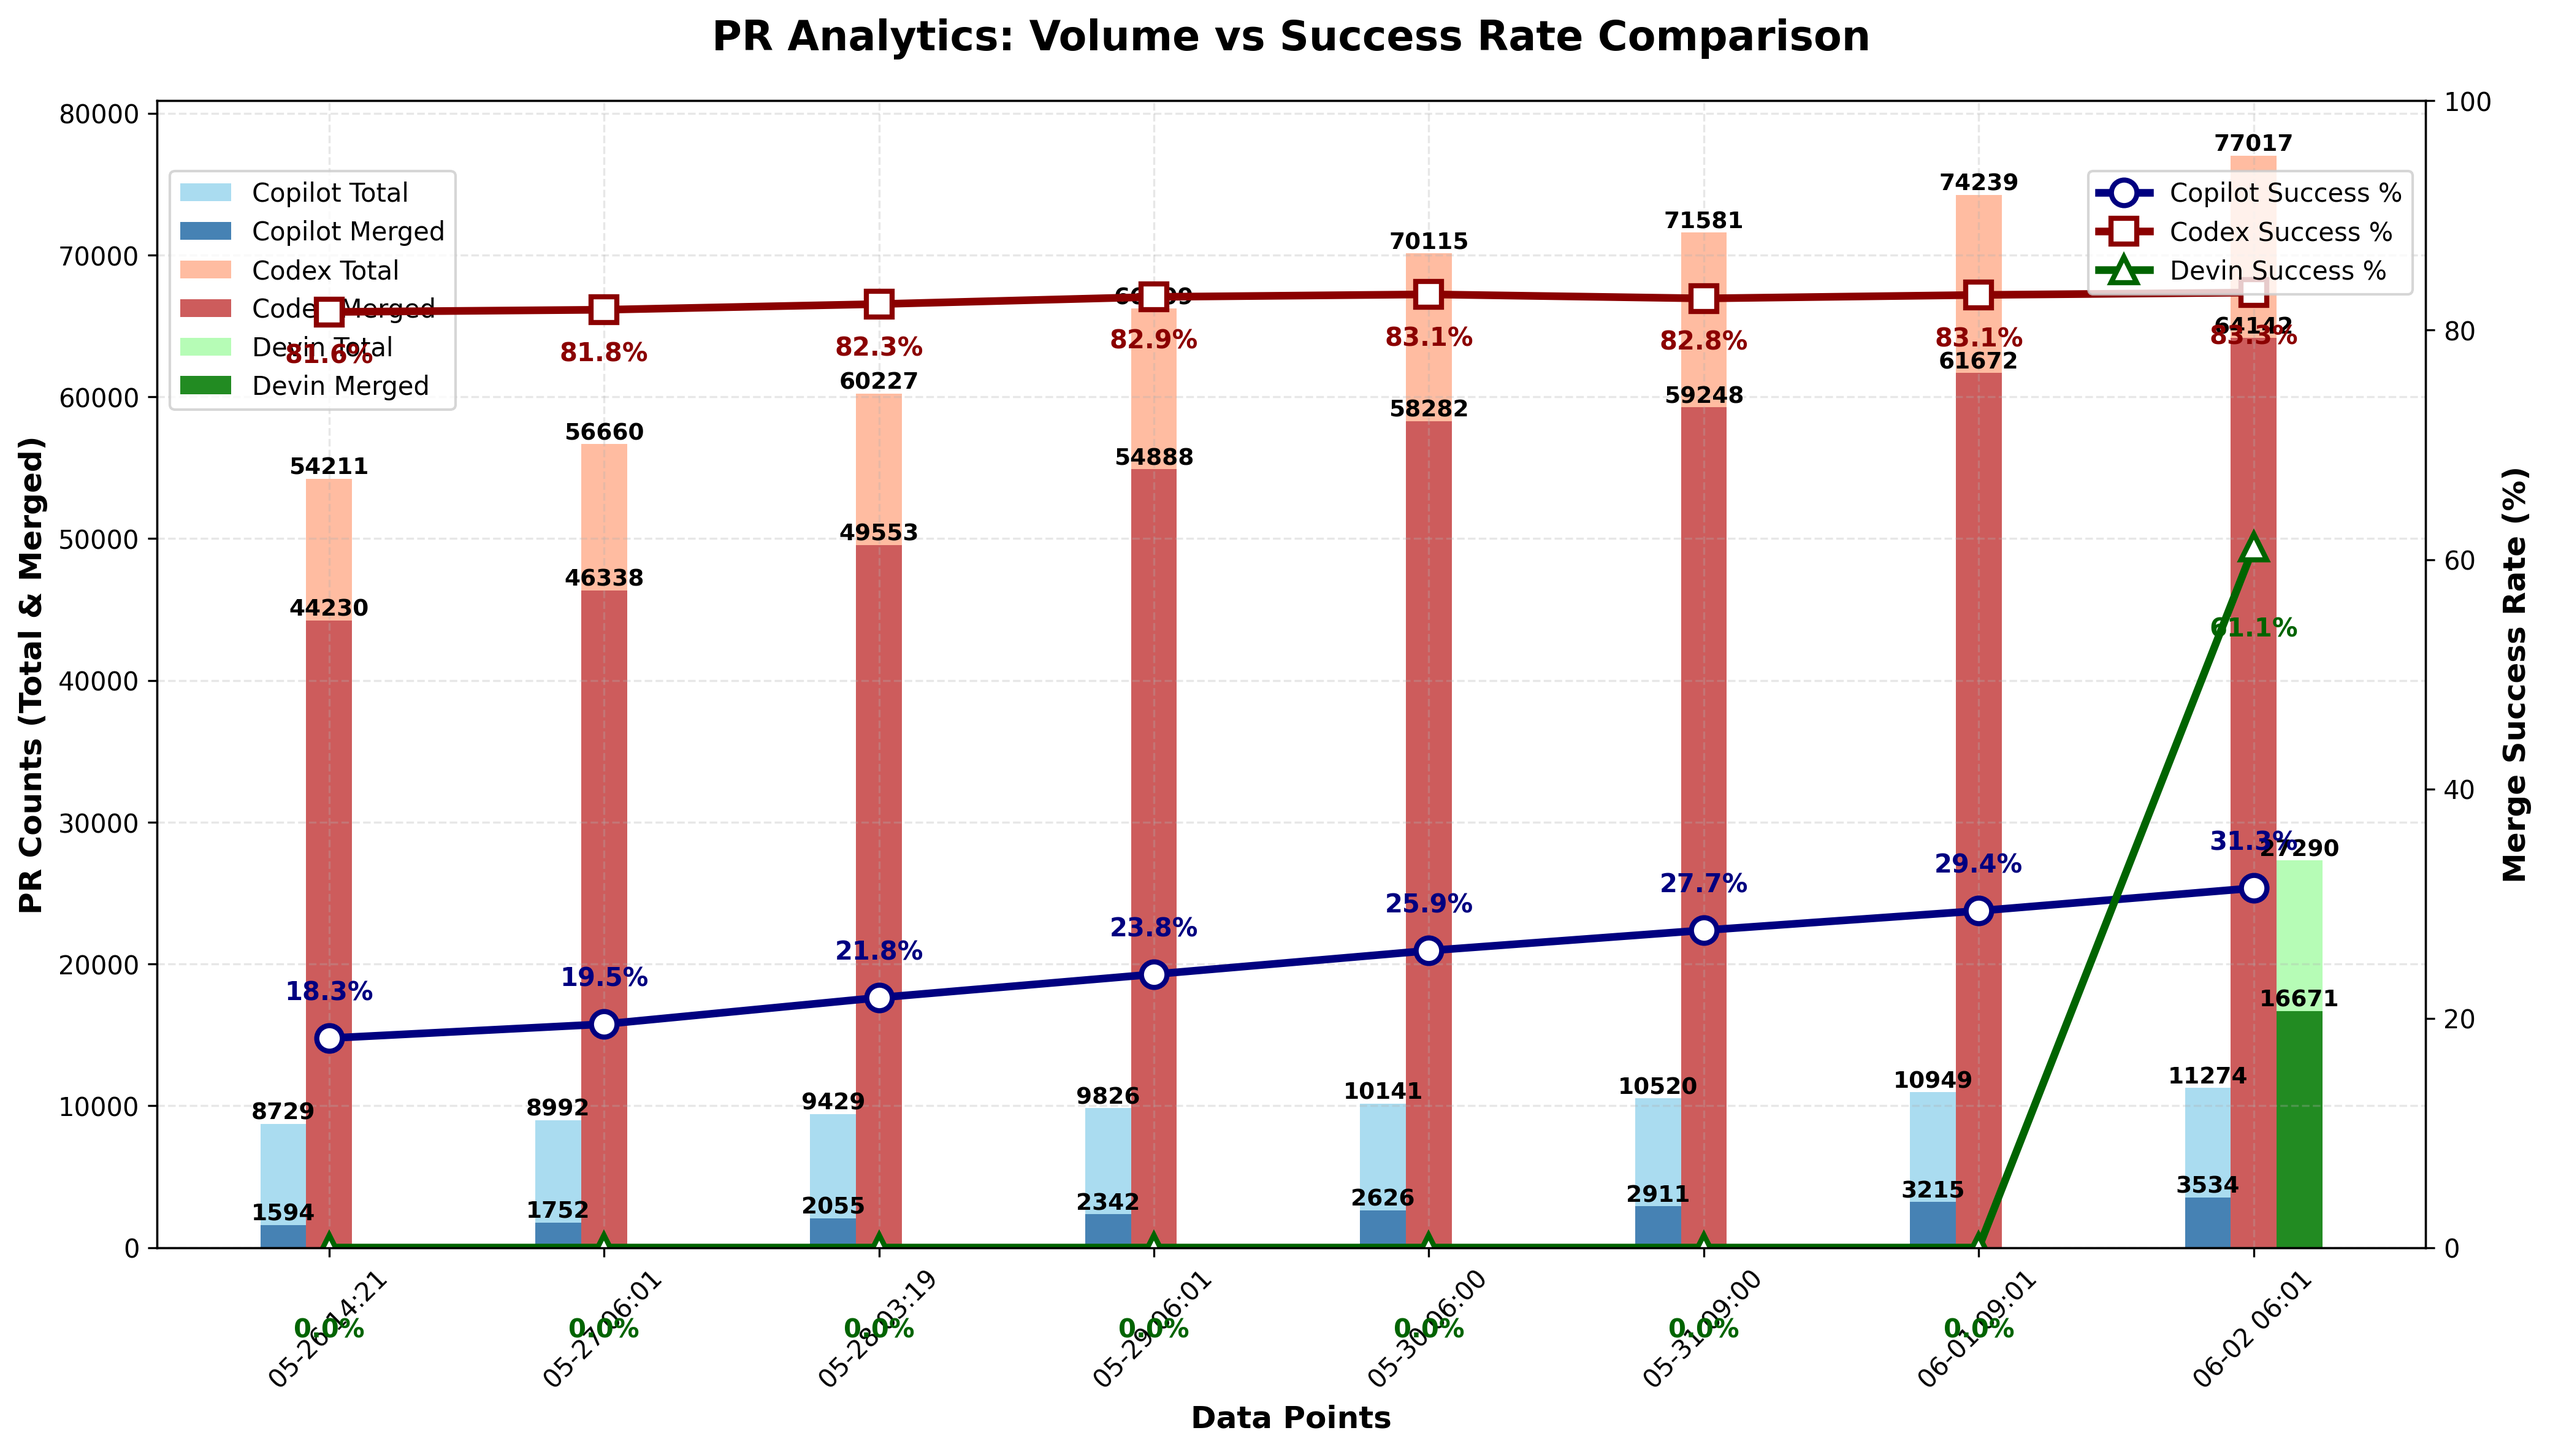
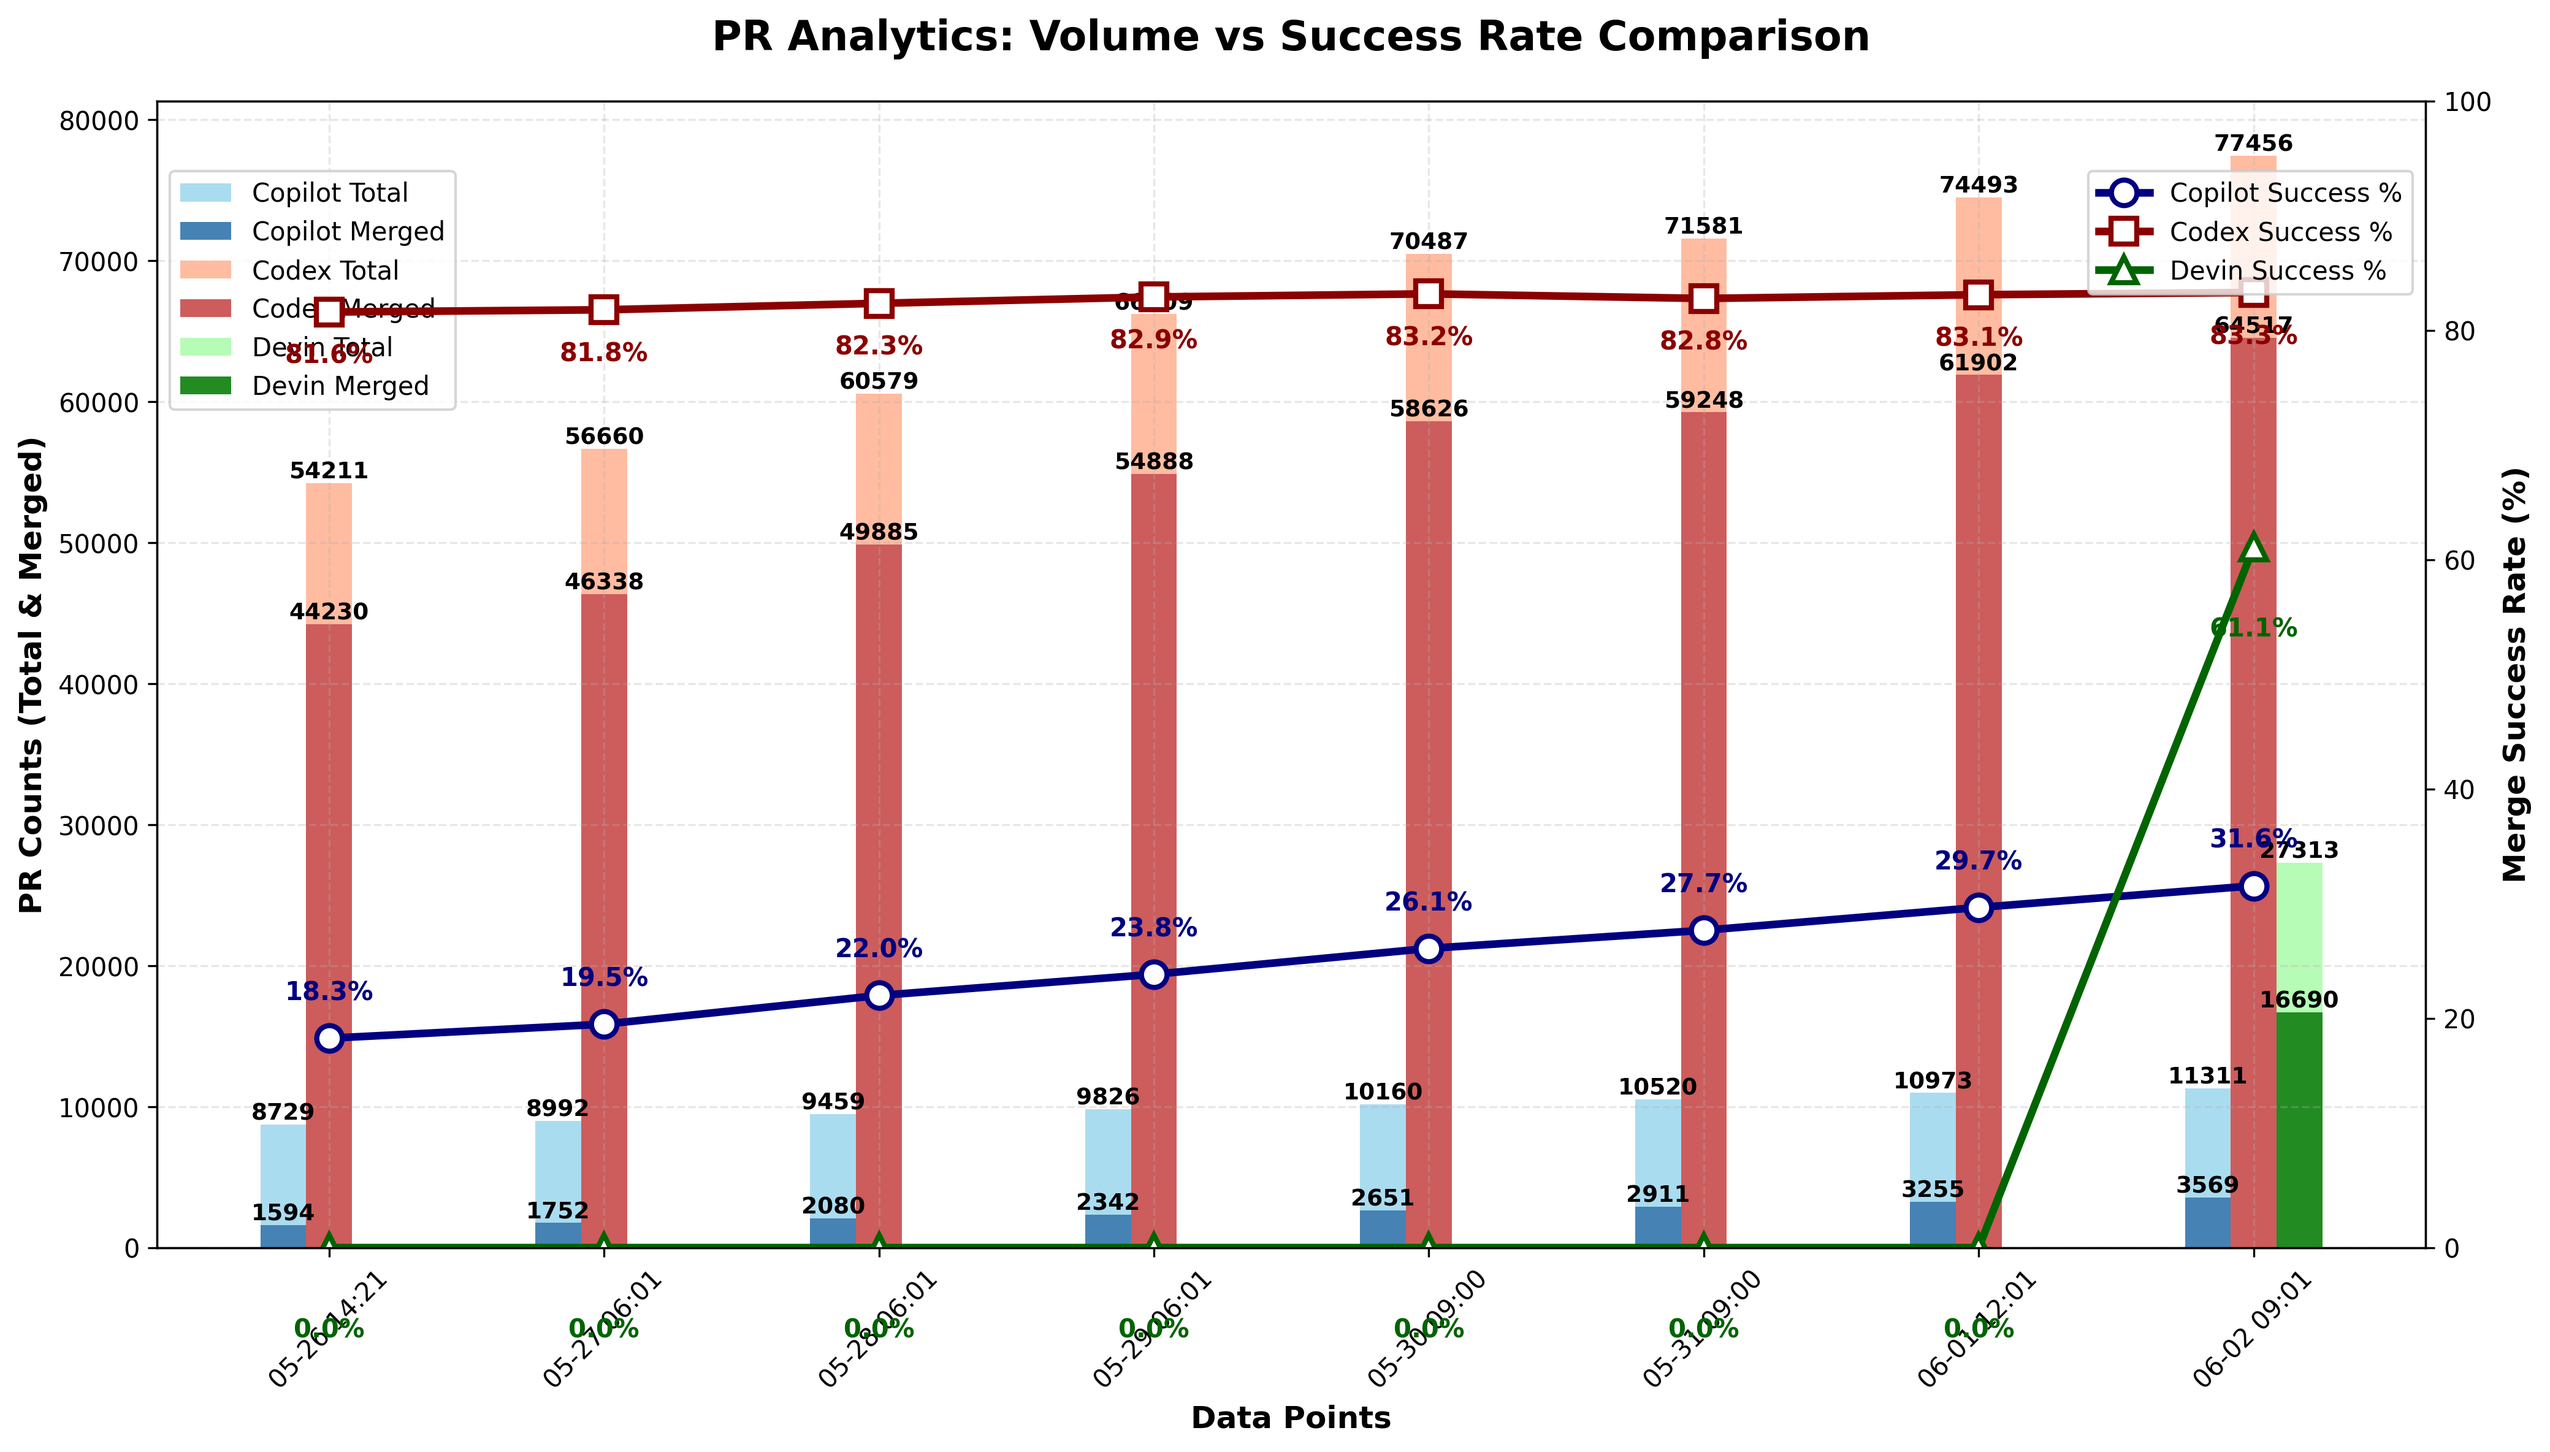
chore: update PR‑approval chart

diff --git a/docs/index.html b/docs/index.html
@@ -46,22 +46,22 @@
                 <tbody>
                     <tr>
                         <td>Copilot</td>
-                        <td>11,274</td>
-                        <td>3,534</td>
-                        <td>31.35%</td>
+                        <td>11,311</td>
+                        <td>3,569</td>
+                        <td>31.55%</td>
                     </tr>
                     <tr>
                         <td>Codex</td>
-                        <td>77,017</td>
-                        <td>64,142</td>
-                        <td>83.28%</td>
+                        <td>77,456</td>
+                        <td>64,517</td>
+                        <td>83.30%</td>
                     </tr>
                 </tbody>
             </table>
         </section>
 
         <footer>
-            <p>Last updated: <span id="last-updated">June 02, 2025 06:01 UTC</span></p>
+            <p>Last updated: <span id="last-updated">June 02, 2025 09:01 UTC</span></p>
             <p><a href="https://github.com/aavetis/ai-pr-watcher">View on GitHub</a></p>
         </footer>
     </div>

diff --git a/README.md b/README.md
@@ -19,6 +19,6 @@ Explore the GitHub search queries used:
 
 | Project | Total PRs | Merged PRs | Merge Rate |
 | ------- | --------- | ---------- | ---------- |
-| Copilot | 11,274 | 3,534 | 31.35% |
-| Codex   | 77,017 | 64,142 | 83.28% |
-| Devin   | 27,290 | 16,671 | 61.09% |
+| Copilot | 11,311 | 3,569 | 31.55% |
+| Codex   | 77,456 | 64,517 | 83.30% |
+| Devin   | 27,313 | 16,690 | 61.11% |
